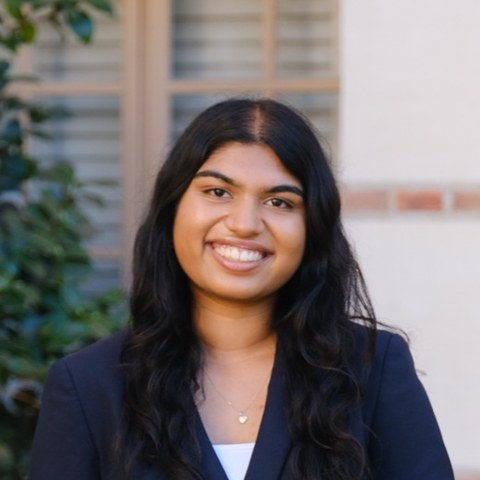
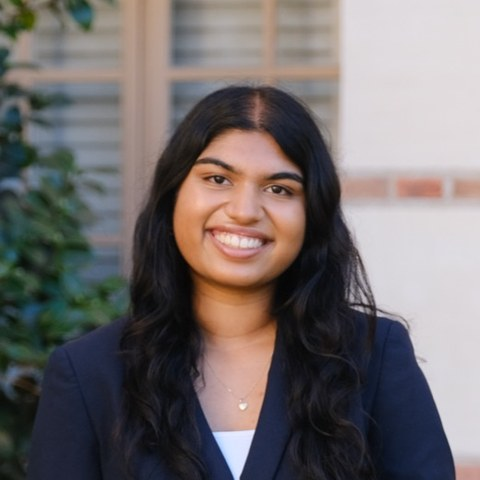
Move Tanzil's headshot up about 3px

diff --git a/src/App.jsx b/src/App.jsx
@@ -186,14 +186,14 @@ const ADVISORS = [
 // (path under public/team/) per person once headshots are available.
 const P = {
   agastya: { name: "Agastya Bassi", linkedin: "https://www.linkedin.com/in/agastya-bassi/", photo: "team/agastya-bassi.jpg" },
-  tanzil: { name: "Tanzil Hussain", linkedin: "https://www.linkedin.com/in/tanzilhussain/", photo: "team/tanzil-hussain.jpg?v=6" },
+  tanzil: { name: "Tanzil Hussain", linkedin: "https://www.linkedin.com/in/tanzilhussain/", photo: "team/tanzil-hussain.jpg?v=7" },
   francis: { name: "Francis Ruan", linkedin: "https://www.linkedin.com/in/francisruan/", photo: "team/francis-ruan.jpg" },
   natalie: { name: "Natalie Lam Johnson", linkedin: "https://www.linkedin.com/in/natalie-lam-johnson/", photo: "team/natalie-lam-johnson.jpg" },
 };
 
 const TOOL_BUILDERS = [
   { name: "Agastya Bassi", linkedin: "https://www.linkedin.com/in/agastya-bassi/", photo: "team/agastya-bassi.jpg" },
-  { name: "Tanzil Hussain", linkedin: "https://www.linkedin.com/in/tanzilhussain/", photo: "team/tanzil-hussain.jpg?v=6" },
+  { name: "Tanzil Hussain", linkedin: "https://www.linkedin.com/in/tanzilhussain/", photo: "team/tanzil-hussain.jpg?v=7" },
   { name: "Francis Ruan", linkedin: "https://www.linkedin.com/in/francisruan/", photo: "team/francis-ruan.jpg" },
   { name: "Natalie Lam Johnson", linkedin: "https://www.linkedin.com/in/natalie-lam-johnson/", photo: "team/natalie-lam-johnson.jpg" },
 ];
